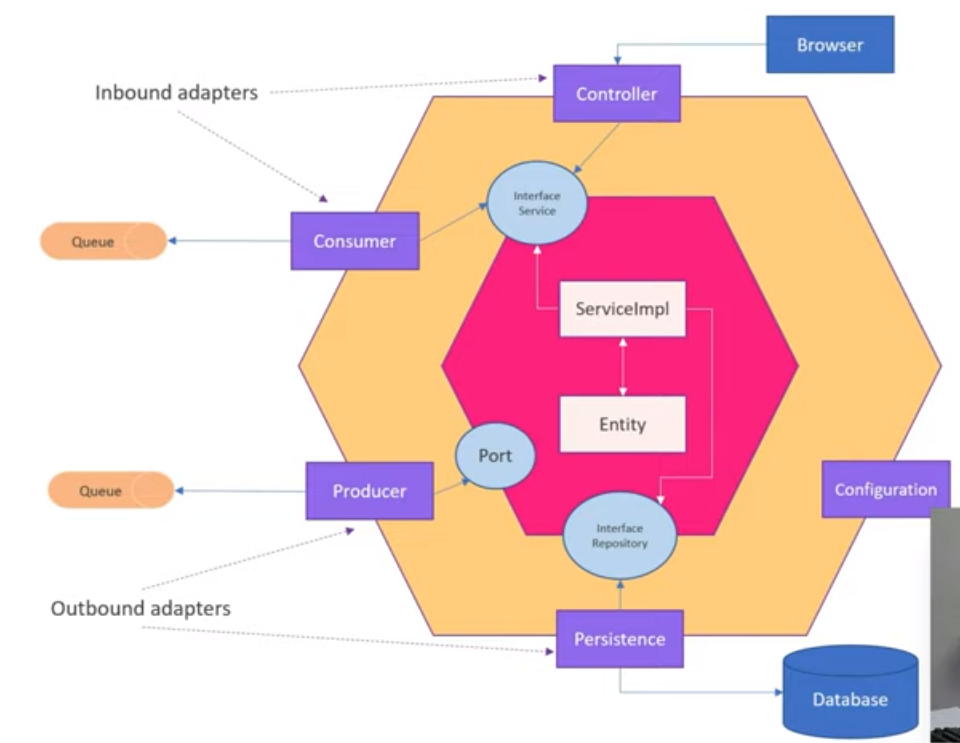
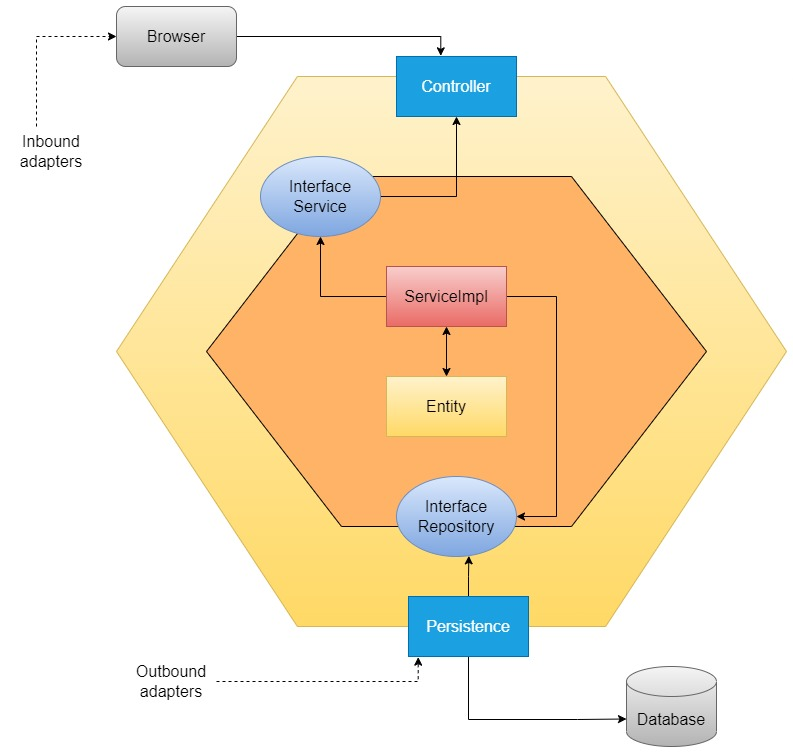
Modificando README

diff --git a/src/main/java/com/hexagonal/crmarquitecturahexagonal/config/EncryptPassword.java b/src/main/java/com/hexagonal/crmarquitecturahexagonal/config/EncryptPassword.java
@@ -1,32 +1,14 @@
 package com.hexagonal.crmarquitecturahexagonal.config;
 
 import java.io.UnsupportedEncodingException;
-import java.security.InvalidKeyException;
 import java.security.MessageDigest;
 import java.security.NoSuchAlgorithmException;
 import java.util.Arrays;
-import java.util.Base64;
 
-import javax.crypto.BadPaddingException;
-import javax.crypto.Cipher;
-import javax.crypto.IllegalBlockSizeException;
-import javax.crypto.NoSuchPaddingException;
+
 import javax.crypto.spec.SecretKeySpec;
 
 public class EncryptPassword {
-
-    // public  String encriptar(String datos, String claveSecreta) throws UnsupportedEncodingException, NoSuchAlgorithmException, InvalidKeyException, NoSuchPaddingException, IllegalBlockSizeException, BadPaddingException {
-    //     SecretKeySpec secretKey = crearClave(claveSecreta);
-         
-    //     Cipher cipher = Cipher.getInstance("AES/ECB/PKCS5Padding");        
-    //     cipher.init(Cipher.ENCRYPT_MODE, secretKey);
- 
-    //     byte[] datosEncriptar = datos.getBytes("UTF-8");
-    //     byte[] bytesEncriptados = cipher.doFinal(datosEncriptar);
-    //     String encriptado = Base64.getEncoder().encodeToString(bytesEncriptados);
- 
-    //     return encriptado;
-    // }
 
     public static SecretKeySpec crearClave(String clave) throws UnsupportedEncodingException, NoSuchAlgorithmException {
         byte[] claveEncriptacion = clave.getBytes("UTF-8");

diff --git a/README.md b/README.md
@@ -1,10 +1,25 @@
 # CRM - Arquitectura Hexagonal
 
+## Obejtivo
 
+Desarrollar un CRM bajo la arquitectura hexagonal o tambien conocida como puertos y adaptadores
+
+## Qué es la arquitetura hexagonal?
+### Definición
+La Arquitectura Hexagonal, dada a conocer por Alistair Cockburn — y también conocida como arquitectura de puertos y adaptadores — , tiene como principal motivación separar nuestra aplicación en distintas capas o regiones con su propia responsabilidad. De esta manera consigue desacoplar capas de nuestra aplicación permitiendo que evolucionen de manera aislada. Además, tener el sistema separado por responsabilidades nos facilitará la reutilización.
+
+Esta arquitectura se suele representar con forma de hexágono, pero el número de lados no es lo que importa, sino lo que estos representan. Cada lado representa un puerto hacia dentro o fuera de la aplicación
 <div align="center">
-<img src="./imagenes/arquitecturaHexagonal.png" >
+<img src="https://miro.medium.com/max/700/1*yR4C1B-YfMh5zqpbHzTyag.png" >
 </div>
 
+La Arquitectura Hexagonal propone que nuestro dominio sea el núcleo de las capas y que este no se acople a nada externo. En lugar de hacer uso explícito y mediante el principio de inversión de dependencias nos acoplamos a contratos (interfaces o puertos) y no a implementaciones concretas.
+
+Esto es lo llamado puertos y adaptadores, que podrían ser definidos de la siguiente manera:
+Puerto: definición de una interfaz pública.
+Adapter: especialización de un puerto para un contexto concreto.
+
+## Ejemplos de componentes que que forman parte de la arquitectura hexagonal
 ## Adaptadores
 ### primarios (entrada)
 * Controladores
@@ -29,5 +44,40 @@
 * puertos
 * casos de uso
 
-## Logica de negocios del proyecto
-El proyecto consiste en un CRM que simula un concesionario de vehiculos, mediante el CRM  los usuarios con rol de Ventas son los encargados de la administración  de todos los clientes que estan registrados en el CRM. Cada usuario gestiona sus respectivos clientes, un cliente no puede estar asociado a dos usuarios del CRM. Los clientes pueden mostrar interes por varios vehiculos, los mismos que estan registrados en el CRM, y el usuario es el encargado de registrar el numero de vehiculos en los cuales esta interesado un cliente y llevar su seguimiento hasta la compra del vehiculo.
+## Arquitectura hexagonal actual del CRM
+
+<div align="center">
+<img src="./imagenes/arquitecturaHexagonal.png" >
+</div>
+
+En la figura se puede observar como esta estructurado el CRM de acurdo a la arquitetura hexagonal, todo con la finalidad de evitar el acoplamiento entre capas. En la parte interna se puede observar todos los casos de uso (ServiceImpl) y las entidades que forman parte del dominio y en la parte exterior se observa UI y la base de datos, la comunicación entre la parte interna y externa se lo realiza mediante los adaptadores y puertos.
+## Acerca del proyecto
+El CRM o tambien conocido por sus siglas en ingles como Customer Relationship Management (Gestión de la Relación con el Cliente).
+El CRM permite el almacenamiento de información de clientes actuales y potenciales, en donde se reúne e integra datos valisos para preparar y actualizar a tus equipos con información personal de los clientes, historial y preferencias de compras.
+
+El proyecto consiste en un CRM que simula un concesionario de vehiculos, en donde se realiza un constante registro de clientes que van a relizar la compra de vehiculos así como también clientes potenciales que muestran interés en ciertos vehiculos.
+
+## Funcionalidades del CRM
+
+* Gestión de Usuarios.
+* Gestion de Clientes.
+* Gestón de Vehiculos.
+* Queda abierto a nuevas funcionalidades.....
+
+Mediante el CRM  los usuarios con rol de Ventas son los encargados de la administración  de  clientes actuales y potenciales que son registrados en el CRM. Cada usuario gestiona sus respectivos clientes, un cliente no puede estar asociado a dos usuarios del CRM. 
+Los clientes pueden mostrar interes por varios vehículos, los mismos que son registrados en el CRM, y el usuario es el encargado de registrar el numero de vehiculos en los cuales esta interesado un cliente y llevar su seguimiento hasta la compra del vehiculo.
+
+## Entorno de desarrollo del CRM
+El crm ha sido desdarrollado con la siguientes tecnologías
+
+### Lenguaje de programación:
+* Java
+* JDK 11
+* Framework Spring Boot 2.0
+
+### Object-Relational mapping
+* Hibernate
+### Base de datos
+* PostgeSQL
+
+
